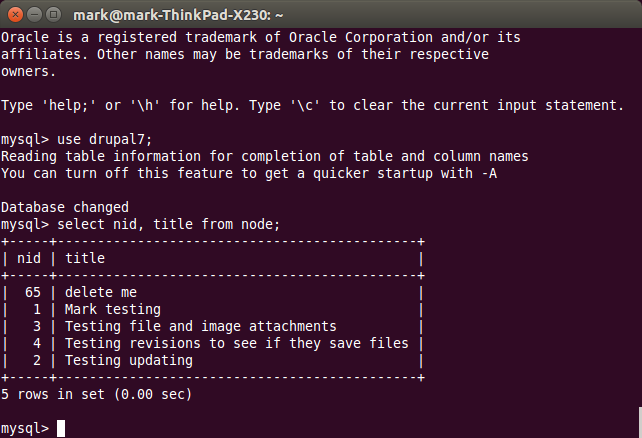
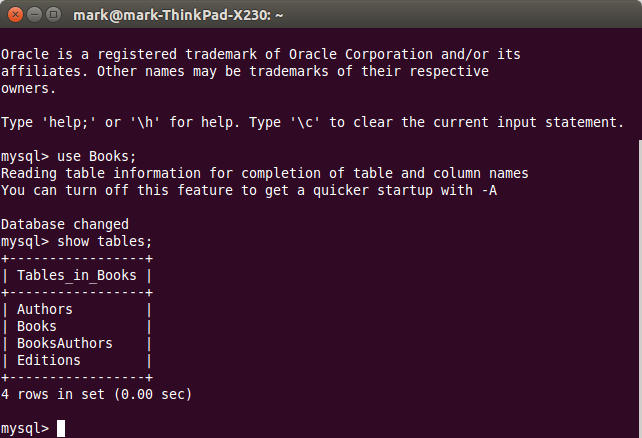
Updated README.md; updated some screencaps.

diff --git a/README.md b/README.md
@@ -110,12 +110,15 @@ As you can see from the sample data, some of the columns contain what look like 
 * integer (a negarive or positive number that does not have a fractional component)
 * varchar (which is short for "variable character data," or in other words, text)
 * text (text)
+* boolean (either true or false; represented in some systems as 1 or 0, respectively)
 
 Columns that are of varchar or text data types both contain text. The distinction between the two is mostly a matter of implementation and with the RDBMS. In this workshop we will use the text data type when creating tables. Even though we do not cover the distinctions between varchar and text, or introduce other data types, determining which data type a column should have is very important step in designing higly performant and optimized databases. Choosing the wrong data type for a column can have a dramatic impact on a database's speed, especially when the database has tables containing thousands or millions of rows.
 
 One of the most common uses of the integer data type is to define "auto-increment" columns in a table. An important rule that you need to follow when choosing a data type for a column is that if you want the RDBMS to generate unique IDs for rows in a table, define the ID column in the table to be an auto-incrementing integer. If you do that, every new row added to the table will get a value in the ID column that is 1 higher than the value in that column for most recently created row. If you look at the Books, Authors, and Editions tables above, you will see the ascending values in the ID columns. The order of the IDs reflects the order in which the rows were added to the tables.
 
 A corollary to this rule is that the data type for columns that are foreign keys should be the same as the data type for the primary key they link to. Therefore, if primary keys are of type integer, then foreign keys should be as well.
+
+Columns of type boolean have two possible values, true or false. Most RDBMSs represent true and false as the integers 1 and 0, respectively.
 
 Defining indexes on columns is also a very important component in designing highly scalable databases, but we won't cover it in this workshop. Indexes allow the RDBMS to very quickly locate a particular row in a table without having to search every row. It is very common to define an index on a column if the table that the column is in is queried often. Primary and foreign keys are commonly indexed for this reason.
 
@@ -305,7 +308,11 @@ DROP TABLE IF EXISTS `BooksAuthors`;
 /*!40101 SET character_set_client = utf8 */;
 CREATE TABLE `BooksAuthors` (
   `book_id` int(11) NOT NULL,
-  `author_id` int(11) NOT NULL
+  `author_id` int(11) NOT NULL,
+  KEY `book_id` (`book_id`),
+  KEY `author_id` (`author_id`),
+  CONSTRAINT `BooksAuthors_ibfk_2` FOREIGN KEY (`author_id`) REFERENCES `Authors` (`author_id`),
+  CONSTRAINT `BooksAuthors_ibfk_1` FOREIGN KEY (`book_id`) REFERENCES `Books` (`book_id`)
 ) ENGINE=InnoDB DEFAULT CHARSET=utf8 COLLATE=utf8_unicode_ci;
 /*!40101 SET character_set_client = @saved_cs_client */;
 
@@ -331,7 +338,9 @@ CREATE TABLE `Editions` (
   `book_id` int(11) NOT NULL,
   `date_of_publication` year(4) NOT NULL,
   `edition_number` text COLLATE utf8_unicode_ci NOT NULL,
-  PRIMARY KEY (`edition_id`)
+  PRIMARY KEY (`edition_id`),
+  KEY `book_id` (`book_id`),
+  CONSTRAINT `Editions_ibfk_1` FOREIGN KEY (`book_id`) REFERENCES `Books` (`book_id`)
 ) ENGINE=InnoDB AUTO_INCREMENT=10 DEFAULT CHARSET=utf8 COLLATE=utf8_unicode_ci;
 /*!40101 SET character_set_client = @saved_cs_client */;
 
@@ -354,7 +363,8 @@ UNLOCK TABLES;
 /*!40101 SET COLLATION_CONNECTION=@OLD_COLLATION_CONNECTION */;
 /*!40111 SET SQL_NOTES=@OLD_SQL_NOTES */;
 
--- Dump completed on 2015-04-18  9:06:22
+-- Dump completed on 2015-04-20  8:32:01
+
 ```
 
 ##### Web-based RDBMS management applications
@@ -376,7 +386,7 @@ This is a screenshot from [PHPMyAdmin](http://www.phpmyadmin.net/home_page/index
 ![MySQL Workbench schema view](assets/mysqlworkbench_schema.png)
 MySQL Workbench schema view
 
-![MySQL Workbench ER diagram view](assets/mysqlworkbench_er_diagram.png)
+![MySQL Workbench ER diagram view](assets/Books_MySQLWorkbench_EER_Diagram.png)
 MySQL Workbench ER diagram view
 
 ##### Limitations of RDBMS managemant applications
@@ -402,7 +412,7 @@ If you are adding a row to this table, you need to know which book ID to use to 
 
 In the exercises using SQL below, we'll need to work around this limitation of the tool we are using by opening multiple web browser windows so we can see all the tables we are using in our queries. Your instructor will demonstrate this work around in person.
 
-One web-based RDBMS management tool that does not have this limitation is [Xataface](http://xataface.com/). The screen shot below was taken from a database that uses Xataface. (The database, coincidentally, also describes books, specifcally, a set of books published in the late 1700s up to the end of the 1800s associated with a particular region in England.) The "Places" form depicted here exists within the form used to edit book entries. The database contains a "books" table, a "publication_place" table, and a more general "place" table. The example below shows how the user can choose a value from either of those tables directly within the form used to edit the book that the places are associated with:
+One web-based RDBMS management tool that does not have this limitation is [Xataface](http://xataface.com/). The screen shot below was taken from a database that uses Xataface. (The database, coincidentally, also describes books, specifcally, a set of books published from the late 1700s up to the end of the 1900s associated with a particular region in England.) The "Places" form depicted here exists within the form used to edit book entries. The database contains a "books" table, a "publication_place" table, and a more general "place" table. The example below shows how the user can choose a value from either of those tables directly within the form used to edit the book that the places are associated with:
 
 ![Example of an autocomplete field for selecting values from linked tables](assets/xataface_linked_table_example.png)
 Image courtesy of John Dingle and Margaret Linley.
